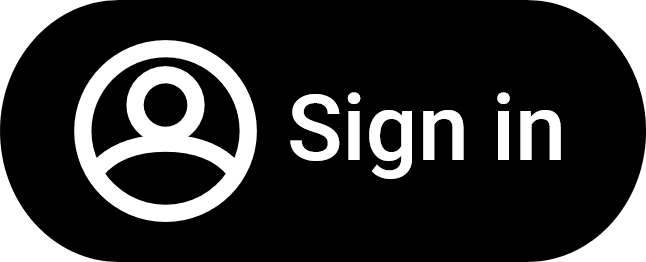
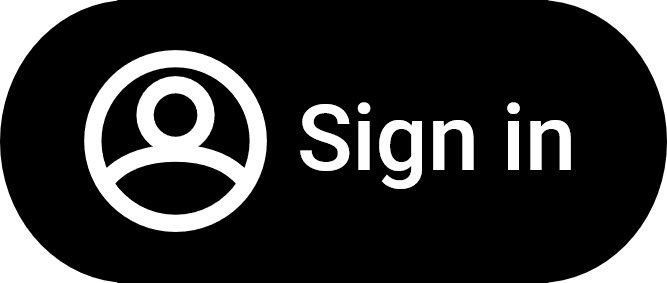
Added Theme Button

diff --git a/src/main/java/org/project/controller/CommunistFrontController.java b/src/main/java/org/project/controller/CommunistFrontController.java
@@ -129,6 +129,74 @@ public class CommunistFrontController implements Initializable
     }
 
     @FXML
+    ImageView themeButton;
+
+    @FXML
+    ImageView themeHover;
+
+    public void themeButtonClicked (MouseEvent event) throws IOException
+    {
+        if (! MainApplication.DarkTheme)
+        {
+            MainApplication.DarkTheme = true;
+            Parent root = FXMLLoader.load (Objects.requireNonNull (getClass ().getResource ("dark-front-view.fxml")));
+
+            Stage stage = (Stage) ((Node) event.getSource ()).getScene ().getWindow ();
+
+            double width  = stage.getWidth ();
+            double height = stage.getHeight ();
+            double x      = stage.getX ();
+            double y      = stage.getY ();
+
+            Scene scene = new Scene (root);
+
+            stage.setScene (scene);
+
+            stage.setWidth (width);
+            stage.setHeight (height);
+            stage.setX (x);
+            stage.setY (y);
+
+            System.out.println ("> Front: opening dark theme front page");
+        }
+        else
+        {
+            MainApplication.DarkTheme = false;
+            Parent root = FXMLLoader.load (Objects.requireNonNull (getClass ().getResource ("communist-front-view.fxml")));
+
+            Stage stage = (Stage) ((Node) event.getSource ()).getScene ().getWindow ();
+
+            double width  = stage.getWidth ();
+            double height = stage.getHeight ();
+            double x      = stage.getX ();
+            double y      = stage.getY ();
+
+            Scene scene = new Scene (root);
+
+            stage.setScene (scene);
+
+            stage.setWidth (width);
+            stage.setHeight (height);
+            stage.setX (x);
+            stage.setY (y);
+
+            System.out.println ("> Front: opening light theme front page");
+        }
+    }
+
+    public void themeButtonHover ()
+    {
+        themeButton.setVisible (false);
+        themeHover.setVisible (true);
+    }
+
+    public void themeButtonUnHover ()
+    {
+        themeButton.setVisible (true);
+        themeHover.setVisible (false);
+    }
+
+    @FXML
     ImageView settingButton;
 
     @FXML

diff --git a/src/main/java/org/project/controller/MainApplication.java b/src/main/java/org/project/controller/MainApplication.java
@@ -17,6 +17,8 @@ public class MainApplication extends Application
 
     static Client client;
 
+    static boolean DarkTheme = false;
+
     public MainApplication ()
     {
 
@@ -30,7 +32,7 @@ public class MainApplication extends Application
     @Override
     public void start (Stage stage) throws Exception
     {
-        FXMLLoader fxmlLoader = new FXMLLoader (MainApplication.class.getResource ("dark-front-view.fxml"));
+        FXMLLoader fxmlLoader = new FXMLLoader (MainApplication.class.getResource ("communist-front-view.fxml"));
         Scene      scene      = new Scene (fxmlLoader.load ());
         stage.setTitle ("WeTube");
         stage.setScene (scene);

diff --git a/src/main/java/com/wetube/server/ClientHandler.java b/src/main/java/com/wetube/server/ClientHandler.java
@@ -236,7 +236,7 @@ public class ClientHandler extends Thread
 
             //endregion
 
-            //region [ - Comment Functions - ]
+            //region [ - Channel Functions - ]
 
 
 
